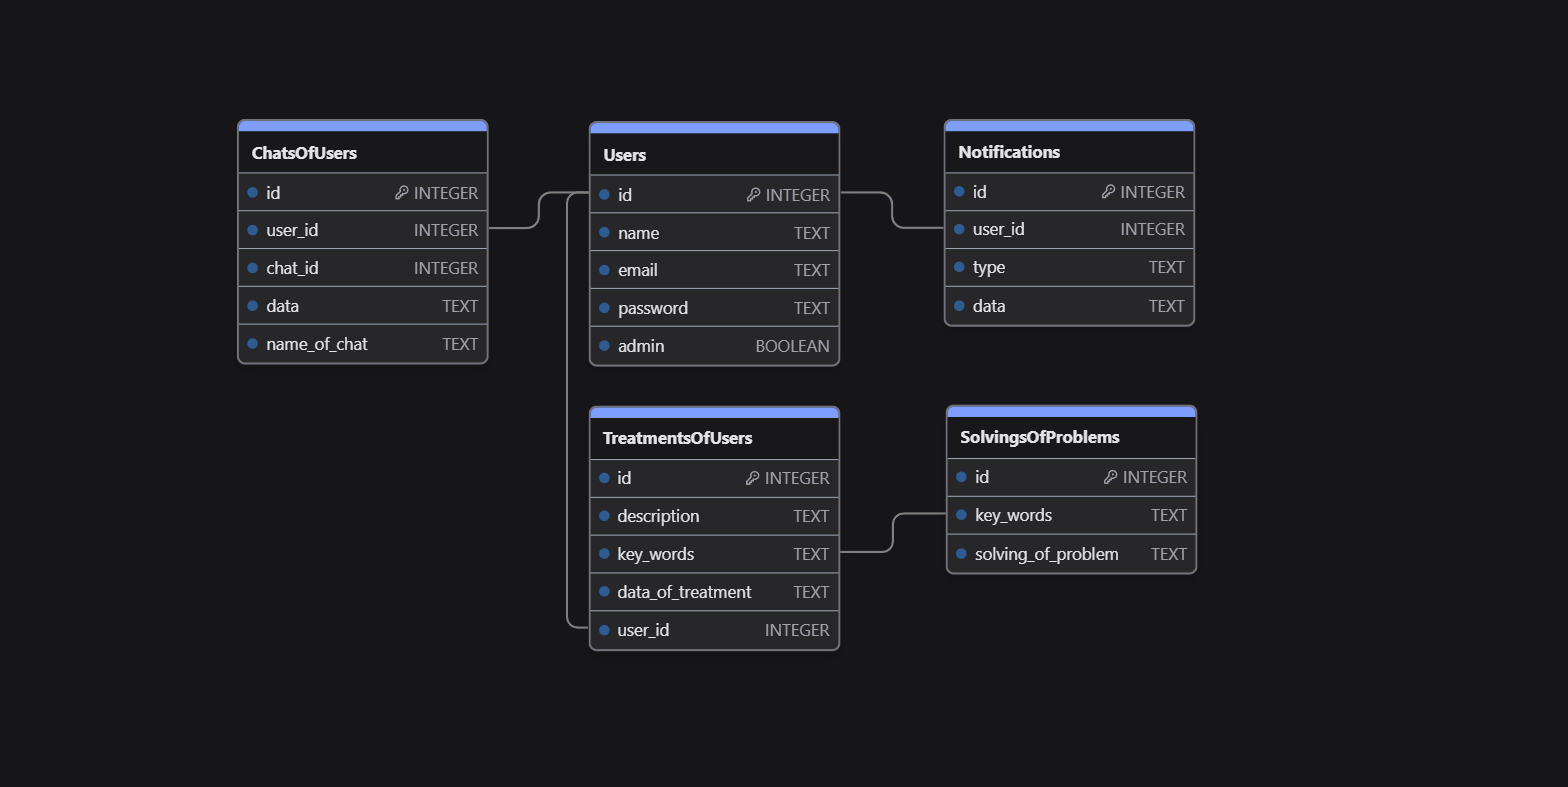
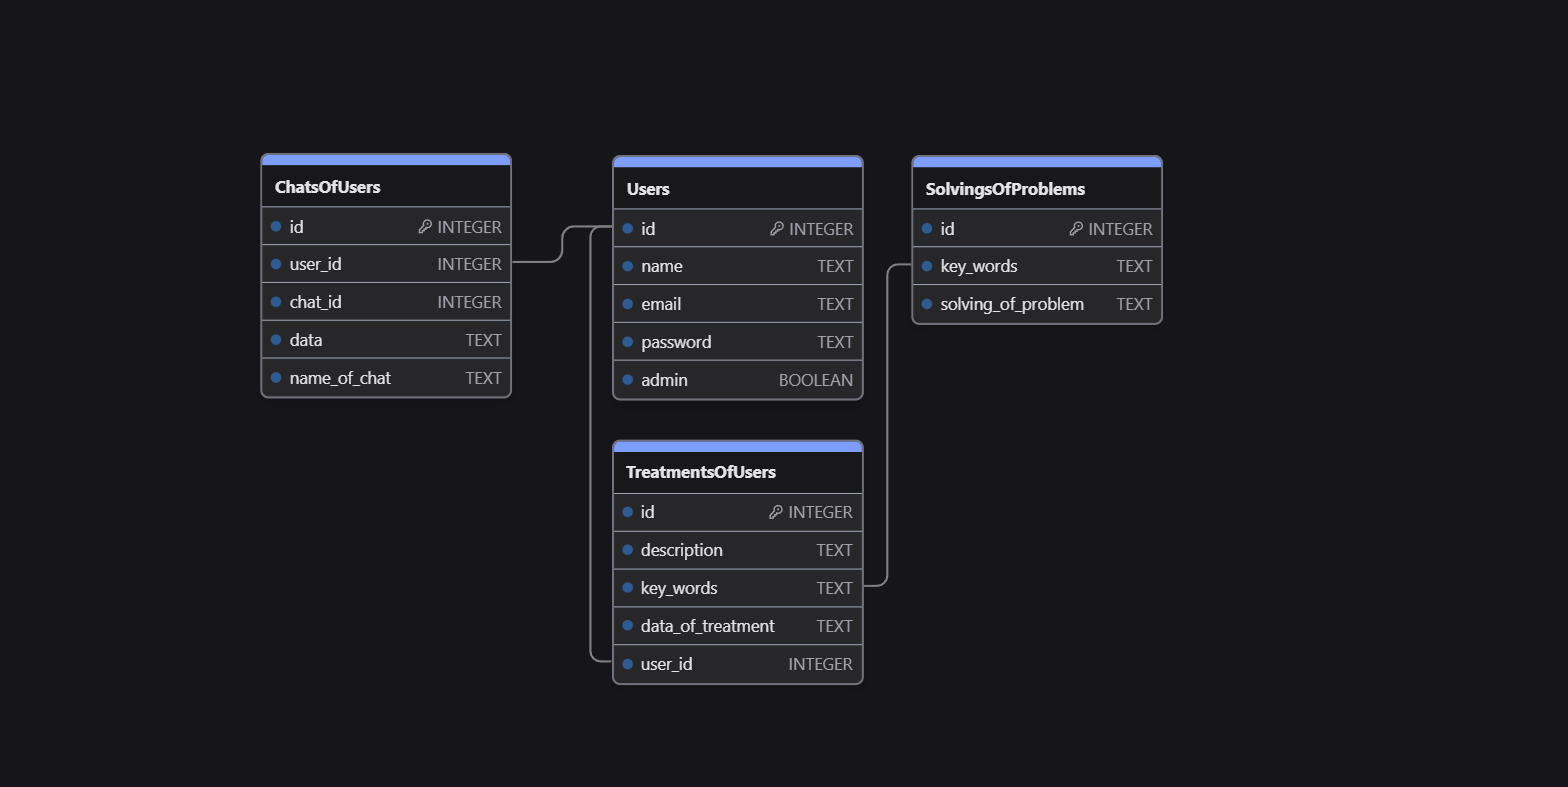
Добавил описания + пару роутов + логика добавления сообщений в бд + поменял бд чуток

Changed region(s): [[0.1562, 0.1525, 0.7812, 0.8539]]

diff --git a/app/voicehub/routes.py b/app/voicehub/routes.py
@@ -3,8 +3,10 @@ import os
 import uuid
 from uuid import UUID
 
+import sqlalchemy
 from flask import Blueprint, jsonify, redirect, render_template, request
 from flask_login import current_user, login_required, login_user, logout_user
+from sqlalchemy.orm.attributes import flag_modified
 
 from app.models import db_session
 from app.models.chats_of_users import ChatsOfUsers
@@ -33,7 +35,14 @@ db_ses = db_session.create_session()
 )
 def index():
     if current_user.is_authenticated:
-        return render_template("main-page.html", user=current_user)
+        list_of_users_chats = (
+            db_ses.query(ChatsOfUsers).filter_by(user_id=current_user.id).all()
+        )
+        return render_template(
+            "main-page.html",
+            user=current_user,
+            list_of_users_chats=list_of_users_chats,
+        )
     else:
         return redirect("/login")
 
@@ -120,10 +129,7 @@ def get_voice2text():
         return jsonify({"error": "No data provided"}), 400
 
     try:
-        # Декодирование base64 обратно в бинарные данные
         decoded_data = base64.b64decode(data)
-
-        # Распознавание речи
         transcription = voice2text_function(decoded_data)
 
         return jsonify({"transcription": transcription})
@@ -136,6 +142,10 @@ def get_voice2text():
 def save_audio():
     data = request.json.get("data")
     fileName = request.json.get("fileName")
+    datetime_of_users_message = request.json.get("datetime_of_users_message")
+    chat_id = request.json.get("chat_id")
+
+    chat = db_ses.query(ChatsOfUsers).filter_by(chat_id=UUID(chat_id)).first()
 
     if data is None or fileName is None:
         return jsonify({"error": "No data or file name provided"}), 400
@@ -168,36 +178,48 @@ def save_audio():
 @login_required
 def add_new_chat():
     name_of_chat = request.args.get("name", type=str)
+    if not name_of_chat:
+        return "Name of chat is required", 400
+
     chat = ChatsOfUsers(
         user_id=current_user.id,
         chat_id=uuid.uuid4(),
         name_of_chat=name_of_chat,
     )
-    db_ses.add(chat)
-    db_ses.commit()
-    return name_of_chat
+
+    try:
+        db_ses.add(chat)
+        db_ses.commit()
+        return "Chat created successfully", 201
+    except sqlalchemy.exc.IntegrityError as e:
+        db_ses.rollback()
+        return f"Integrity Error: {e.orig}", 400
+    except sqlalchemy.exc.SQLAlchemyError as e:
+        db_ses.rollback()
+        return f"SQLAlchemy Error: {e}", 500
+    except Exception as e:
+        db_ses.rollback()
+        return f"Internal Server Error: {e}", 500
 
 
 @voicehub.route("/chat", methods=["POST", "GET"])
 @login_required
 def chat_page():
     chat_id = request.args.get("chat_id", type=str)
-    chat_data = (
-        db_ses.query(ChatsOfUsers)
-        .filter_by(chat_id=UUID(chat_id))
-        .first()
-        .data
-    )
-    print(
-        type(
-            db_ses.query(ChatsOfUsers)
-            .filter_by(chat_id=UUID(chat_id))
-            .first()
-            .chat_id
-        ),
-        db_ses.query(ChatsOfUsers)
-        .filter_by(chat_id=UUID(chat_id))
-        .first()
-        .chat_id,
-    )
-    return jsonify(chat_data)
+    if not chat_id:
+        return "Chat ID is required", 400
+
+    try:
+        chat = (
+            db_ses.query(ChatsOfUsers).filter_by(chat_id=UUID(chat_id)).first()
+        )
+        if not chat:
+            return "Chat not found", 404
+
+        return chat.data
+    except ValueError:
+        return "Invalid UUID format", 400
+    except sqlalchemy.exc.SQLAlchemyError as e:
+        return f"SQLAlchemy Error: {e}", 500
+    except Exception as e:
+        return f"Internal Server Error: {e}", 500

diff --git a/app/__init__.py b/app/__init__.py
@@ -1,23 +1,28 @@
+"""Главный модуль проекта."""
+
 from flask import Flask
 from flask_admin import Admin, AdminIndexView
 from flask_babel import Babel
 from flask_login import LoginManager
 
 from app.admin.localization.admin_localization import get_locale
-from app.admin.views.notifications_views import NotificationsView
 from app.admin.views.solvings_of_problems_view import SolvingsOfProblemsView
 from app.admin.views.treatments_of_users_view import TreatmentsOfUsersView
 from app.admin.views.users_view import UsersView
 from app.config import config
 from app.models import db_session
-from app.models.notifications import Notifications
 from app.models.solvings_of_problems import SolvingsOfProblems
 from app.models.treatments_of_users import TreatmentsOfUsers
 from app.models.users import Users
 from app.voicehub.routes import voicehub
 
 
-def create_app():
+def create_app() -> Flask:
+    """Создает сессию Flask
+
+    Returns:
+        Flask: app с названием __name__ и классом Flask
+    """
     app = Flask(__name__)
     app.config.from_object(config)
     db_session.global_init(config.DATABASE_URI)
@@ -36,11 +41,6 @@ def create_app():
             Users,
             db_ses,
             name="Пользователи",
-        ),
-        NotificationsView(
-            Notifications,
-            db_ses,
-            name="Уведомления",
         ),
         SolvingsOfProblemsView(
             SolvingsOfProblems,

diff --git a/app/models/chats_of_users.py b/app/models/chats_of_users.py
@@ -1,9 +1,13 @@
+import datetime
+
 import sqlalchemy
 
 from app.models.db_session import SqlAlchemyBase
 
 
 class ChatsOfUsers(SqlAlchemyBase):
+    """Модель чатов юзеров"""
+
     __tablename__ = "chats_of_users"
 
     id = sqlalchemy.Column(
@@ -11,5 +15,26 @@ class ChatsOfUsers(SqlAlchemyBase):
     )
     user_id = sqlalchemy.Column(sqlalchemy.Integer, nullable=False)
     chat_id = sqlalchemy.Column(sqlalchemy.UUID, unique=True)
-    data = sqlalchemy.Column(sqlalchemy.JSON, nullable=True)
+    data = sqlalchemy.Column(
+        sqlalchemy.JSON, nullable=True, default={"messages": []}
+    )
     name_of_chat = sqlalchemy.Column(sqlalchemy.String, nullable=False)
+
+    def add_new_message(
+        self, sender: str, content: str, datetime_of_users_message: str
+    ):
+        """
+        Добавляет сообщение в чат.
+
+        :param sender: Отправитель сообщения ('user' или 'bot')
+        :type sender: str
+        :param content: Содержание сообщения
+        :type content: str
+        """
+        self.data["messages"].append(
+            {
+                "timestamp": datetime_of_users_message,
+                "sender": sender,
+                "content": content,
+            }
+        )

diff --git a/app/whisper/voice2text.py b/app/whisper/voice2text.py
@@ -7,7 +7,15 @@ model = WhisperForConditionalGeneration.from_pretrained(model_name)
 processor = WhisperProcessor.from_pretrained(model_name)
 
 
-def voice2text_function(file_path):
+def voice2text_function(file_path: str) -> str:
+    """Преобразует аудиофайл в его текстовую расшифровку
+
+    Args:
+        file_path (str): Путь к файлу относительно run.py
+
+    Returns:
+        str: Текстовая расшифровка файла
+    """
     model_name = "openai/whisper-large-v3-turbo"
     model = WhisperForConditionalGeneration.from_pretrained(model_name)
     processor = WhisperProcessor.from_pretrained(model_name)

diff --git a/app/admin/views/solvings_of_problems_view.py b/app/admin/views/solvings_of_problems_view.py
@@ -2,6 +2,8 @@ from .base_view import BaseView
 
 
 class SolvingsOfProblemsView(BaseView):
+    """Вьюха решений"""
+
     column_list = ("id", "key_words", "solving_of_problem")
     column_filters = ("key_words",)
     column_labels = {

diff --git a/app/models/solvings_of_problems.py b/app/models/solvings_of_problems.py
@@ -4,6 +4,8 @@ from app.models.db_session import SqlAlchemyBase
 
 
 class SolvingsOfProblems(SqlAlchemyBase):
+    """Модель решений вопросов"""
+
     __tablename__ = "solvings_of_problems"
 
     id = sqlalchemy.Column(

diff --git a/app/models/treatments_of_users.py b/app/models/treatments_of_users.py
@@ -4,6 +4,8 @@ from app.models.db_session import SqlAlchemyBase
 
 
 class TreatmentsOfUsers(SqlAlchemyBase):
+    """Модель вопросов юзеров"""
+
     __tablename__ = "treatments_of_users"
 
     id = sqlalchemy.Column(

diff --git a/app/admin/views/base_view.py b/app/admin/views/base_view.py
@@ -4,6 +4,8 @@ from flask_admin.contrib.sqla import ModelView
 
 
 class BaseView(ModelView):
+    """Базовая вьюха для админки"""
+
     can_create = True
     can_edit = True
     can_delete = True

diff --git a/app/models/__all_models.py b/app/models/__all_models.py
@@ -1,7 +1,1 @@
-from . import (
-    chats_of_users,
-    notifications,
-    solvings_of_problems,
-    treatments_of_users,
-    users,
-)
+from . import chats_of_users, solvings_of_problems, treatments_of_users, users

diff --git a/app/models/users.py b/app/models/users.py
@@ -6,6 +6,8 @@ from app.models.db_session import SqlAlchemyBase
 
 
 class Users(SqlAlchemyBase, UserMixin):
+    """Модель юзеров"""
+
     __tablename__ = "users"
 
     id = sqlalchemy.Column(

diff --git a/app/admin/views/treatments_of_users_view.py b/app/admin/views/treatments_of_users_view.py
@@ -2,6 +2,8 @@ from .base_view import BaseView
 
 
 class TreatmentsOfUsersView(BaseView):
+    """Вьюха проблем"""
+
     column_list = (
         "id",
         "description",

diff --git a/app/admin/views/users_view.py b/app/admin/views/users_view.py
@@ -2,6 +2,8 @@ from .base_view import BaseView
 
 
 class UsersView(BaseView):
+    """Вьюха юзеров"""
+
     can_create = False
     column_list = (
         "id",
